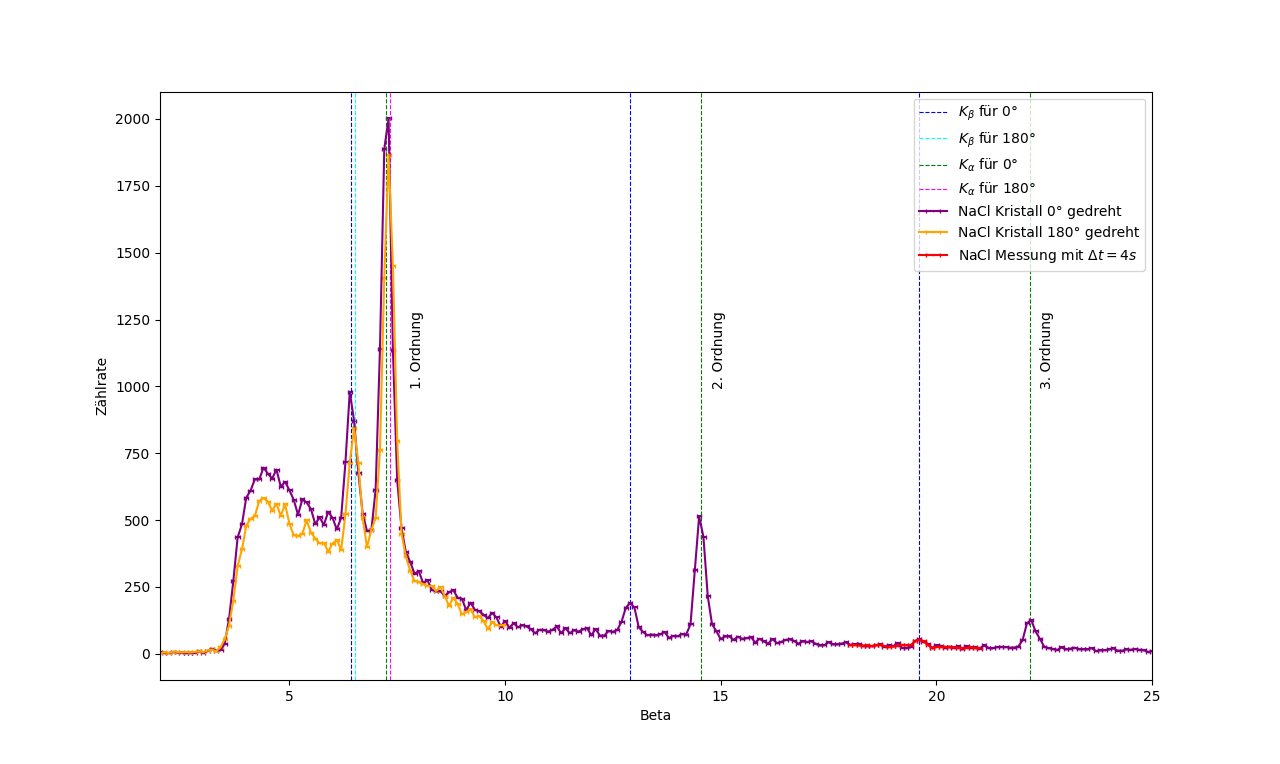
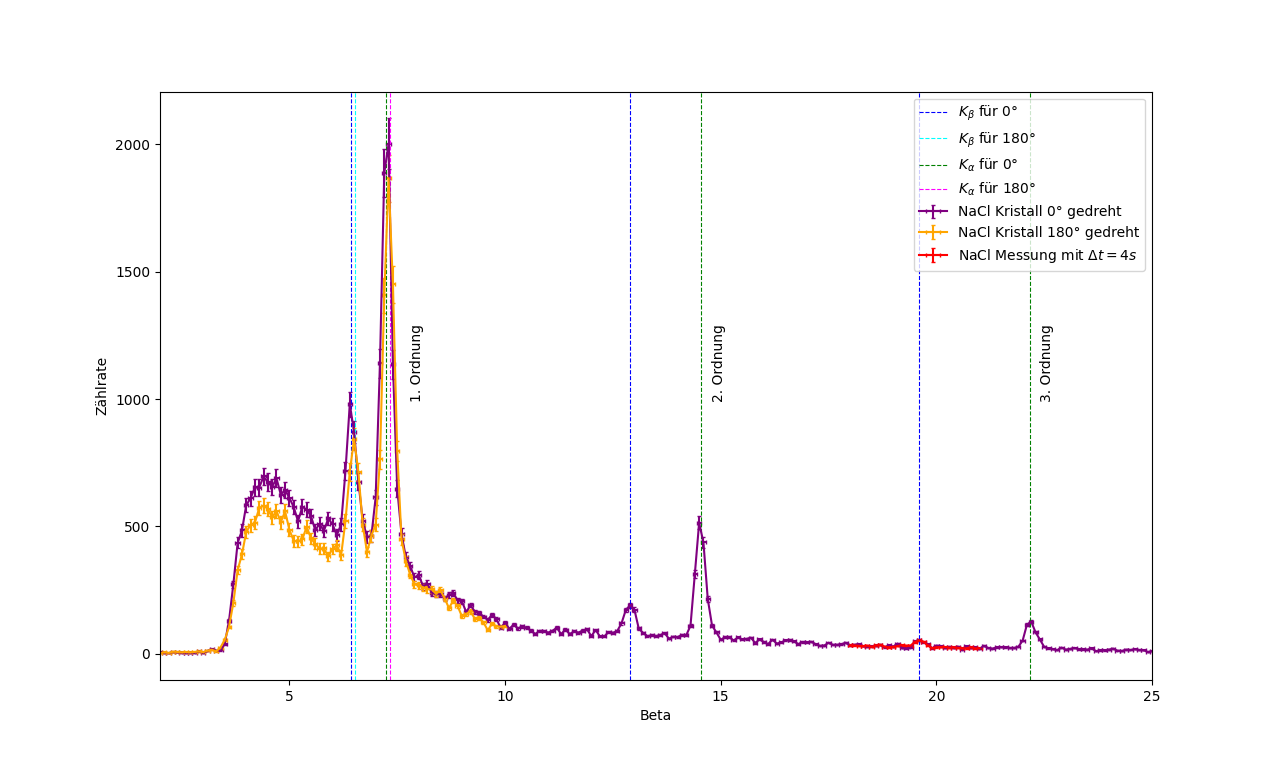
unischerheiten

diff --git a/XST/NaClK.py b/XST/NaClK.py
@@ -27,6 +27,10 @@ beta2bis10_u = uarray(beta2bis10, 0.05)
 betaFull_u = uarray(betaFull, 0.05)
 beta18bis21_u = uarray(beta18bis21, 0.05)
 
+zeroDegreeNaCl_u = uarray(zeroDegreeNaCl, np.array(zeroDegreeNaCl)*5/100)
+oneEightyNaCl_u = uarray(oneEightyNaCl, np.array(oneEightyNaCl)*5/100)
+NaCl18bis21_u = uarray(NaCl18bis21, np.array(NaCl18bis21)*5/100)
+
 fig, ax = plt.subplots()
 
 
@@ -40,8 +44,8 @@ ax.set_xlabel("Beta")
 ax.set_ylabel(r"Zählrate")
 
 ax.errorbar(
-        nominal_values(betaFull),
-        zeroDegreeNaCl,
+        nominal_values(betaFull_u),
+        nominal_values(zeroDegreeNaCl_u),
         label=r'NaCl Kristall 0° gedreht',
         color='purple',
         # linestyle='',
@@ -50,11 +54,11 @@ ax.errorbar(
         capsize=1.5,
         # elinewidth=1.2,
         xerr=std_devs(betaFull_u),
-        # yerr=std_devs(tanAlpha1)
+        yerr=std_devs(zeroDegreeNaCl_u)
 )
 ax.errorbar(
         nominal_values(beta2bis10_u),
-        oneEightyNaCl,
+        nominal_values(oneEightyNaCl_u),
         label=r'NaCl Kristall 180° gedreht',
         color='orange',
         # linestyle='',
@@ -63,11 +67,11 @@ ax.errorbar(
         capsize=1.5,
         # elinewidth=1.2,
         xerr=std_devs(beta2bis10_u),
-        # yerr=std_devs(tanAlpha1)
+        yerr=std_devs(oneEightyNaCl_u)
 )
 ax.errorbar(
         nominal_values(beta18bis21_u),
-        NaCl18bis21,
+        nominal_values(NaCl18bis21_u),
         label=r'NaCl Messung mit $\Delta t = 4s$',
         color='red',
         # linestyle='',
@@ -76,7 +80,7 @@ ax.errorbar(
         capsize=1.5,
         # elinewidth=1.2,
         xerr=std_devs(beta18bis21_u),
-        # yerr=std_devs(tanAlpha1)
+        yerr=std_devs(NaCl18bis21_u)
 )
 
 

diff --git a/generalFunctions.py b/generalFunctions.py
@@ -49,7 +49,6 @@ def ufloatToTexStr(uf):
     ufloat = str(ufloat)
     ufloat = ufloat.replace('+/-', ' \pm ')
     ufloat = "$" + ufloat + "$"
-    print(ufloat)
     if ufloat.__contains__('e'):
         ufloat = ufloat.replace('e', '\cdot 10^{')
         ufloat = ufloat.replace('+', '')

diff --git a/XST/PlotNaClUndDreheung.py b/XST/PlotNaClUndDreheung.py
@@ -25,6 +25,8 @@ oneEightyNaCl = [2.0, 5.0, 3.0, 8.0, 7.0, 5.0, 7.0, 5.0, 7.0, 9.0, 6.0, 12.0, 16
 beta2bis10_u = uarray(beta2bis10, 0.05)
 betaFull_u = uarray(betaFull, 0.05)
 
+
+
 fig, ax = plt.subplots(1,2)
 
 
